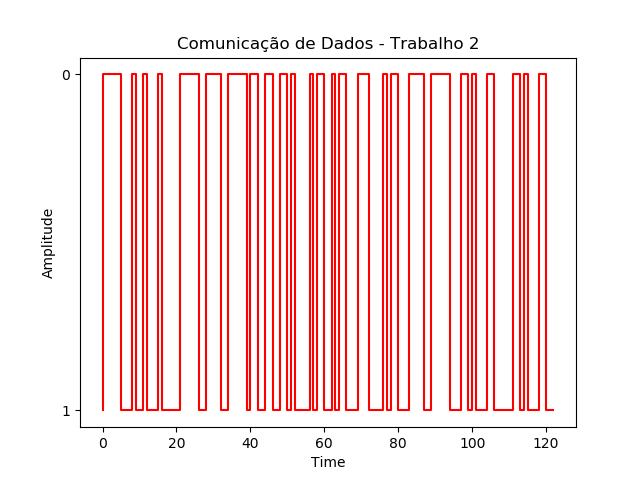
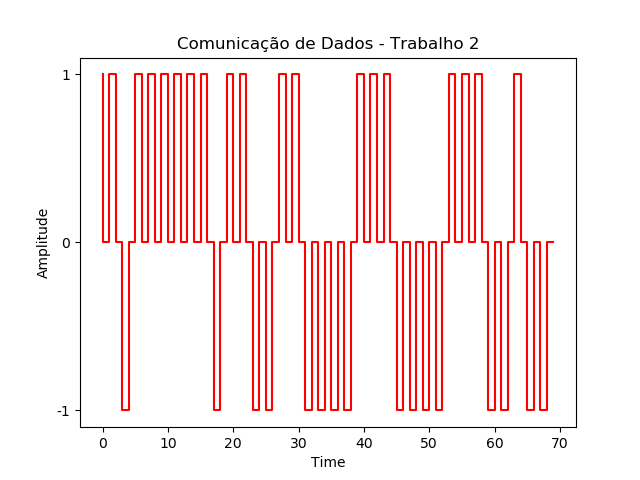
Almost done!

diff --git a/py/client.py b/py/client.py
@@ -10,12 +10,14 @@ from PyQt5.QtCore import pyqtSlot
 from PyQt5.QtWidgets import QApplication, QDialog
 from PyQt5.uic import loadUi
 
+ALGORITMO = sys.argv[1]
 
 class Client(QDialog):
 
     def __init__(self):
         super(Client, self).__init__()
         loadUi('client.ui', self)
+        self.connect()
         self.executar()
 
     def executar(self):
@@ -24,37 +26,33 @@ class Client(QDialog):
 
     ### THE CODE
 
+    def connect(self):
+        self.s = socket.socket()
+        self.host = socket.gethostname()
+        self.port = 1333
+        print("Connecting to the host...")
+        self.s.connect((self.host, self.port))
+
     def enviar(self):
 
-        s = socket.socket()
-        host = socket.gethostname()
-        port = 1333
+        while True:
+            msg = self.message()
+            cri = self.cript(msg)
+            conv = self.msg2bin(cri)
 
-        msg = self.message()
-        conv = self.msg2bin(msg)
+            print("criii", cri)
 
-        test = self.msg2array(msg)
-        array = []
+            if ALGORITMO == "nrz":
+                array = self.nrz(msg)
+            elif ALGORITMO == "rz":
+                array = self.rz(msg)
+            else:
+                array = None
 
-        for i in test:
-            array.append(i)
+            self.s.send(conv)
+            #self.s.close()
 
-        print(array)
-
-        s.connect((host, port))
-        s.send(conv)
-
-        for i in array:
-            if i == ' ':
-                array.remove(i)
-
-        input_amp = array
-        plt.plot(input_amp, color='red', drawstyle='steps-pre')
-        plt.title("Comunicação de Dados - Trabalho 2")
-        plt.ylabel('Amplitude')
-        plt.xlabel("Time")
-        plt.savefig("waveform.png")
-        plt.show()
+            self.graph(array)
         
 
     def message(self):
@@ -69,12 +67,54 @@ class Client(QDialog):
 
         return conv
 
-    def msg2array(self, msg):
+    def nrz(self, msg):
         conv = ' '.join(format(ord(x), 'b') for x in msg)
-        # print(conv)
-        return conv
+        array = []
+        for i in conv:
+            array.append(i)
+        for i in array:
+            if i == ' ':
+                array.remove(i)
+        return array
+    
+    def rz(self, msg):
+        conv = ' '.join(format(ord(x), 'b') for x in msg)
+        array = []
+        for i in conv:
+            array.append(i)
+        for i in array:
+            if i == ' ':
+                array.remove(i)
+        
+        new_array = []
 
-    # def nrz():
+        for i, item in enumerate(array):
+            if item == '0':
+                array[i] = '-1'
+        
+        for i in array:
+            new_array.append(i)
+            new_array.append(0)
+
+        return new_array
+    
+    def cript(self, msg):
+        alfabeto = 'abcdefghijklmnopqrstuvwxyz'
+        criptografia = ''
+        for x in msg:
+            pos = alfabeto.find(x)
+            new_pos = (pos+5) % 26
+            criptografia+=alfabeto[new_pos]
+        return criptografia
+
+    def graph(self, array):
+        plt.plot(array, color='red', drawstyle='steps-pre')
+        plt.title("Comunicação de Dados - Trabalho 2")
+        plt.ylabel('Amplitude')
+        plt.xlabel("Time")
+        plt.gca().invert_yaxis()
+        plt.savefig("waveform.png")
+        plt.show()
 
 
 app = QApplication(sys.argv)

diff --git a/py/server.py b/py/server.py
@@ -32,26 +32,35 @@ class Server(QDialog):
         s.bind((host, port))
         s.listen(5)
 
-
         client_socket, address = s.accept()
-        print("Conencted to - ", address, "\n")
+        
+        while True:
+            data = client_socket.recv(2048)
+            dec = data.decode('utf8')
+            cri = self.decript(dec)
+            print("decriii", cri)
+            #my_bytes = bytearray(data)
+            print(dec)
 
-        data = client_socket.recv(2048)
-        dec = data.decode('utf8')
-        #my_bytes = bytearray(data)
-        print(dec)
-
-        self.message.setText(dec)
+            self.message.setText(cri)
 
 
         print("The following data was received - ", data)
                 
-
+    def decript(self, msg):
+        alfabeto = 'abcdefghijklmnopqrstuvwxyz'
+        criptografia = ''
+        for x in msg:
+            pos = alfabeto.find(x)
+            new_pos = (pos-5) % 26
+            criptografia+=alfabeto[new_pos]
+        print(criptografia)
+        return criptografia
 
 
 app = QApplication(sys.argv)
 widget = Server()
-widget.show()
+widget.show()   
 sys.exit(app.exec_())
 
 
